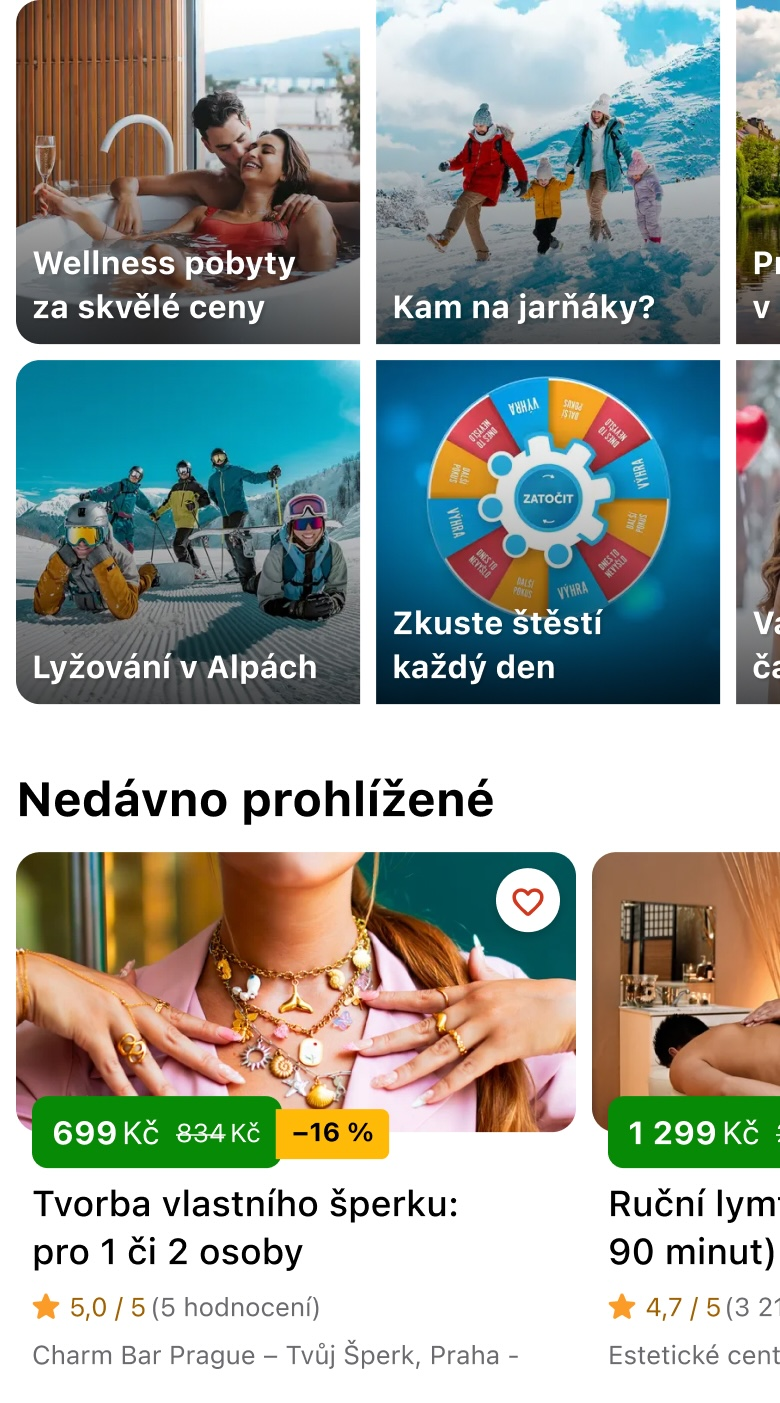
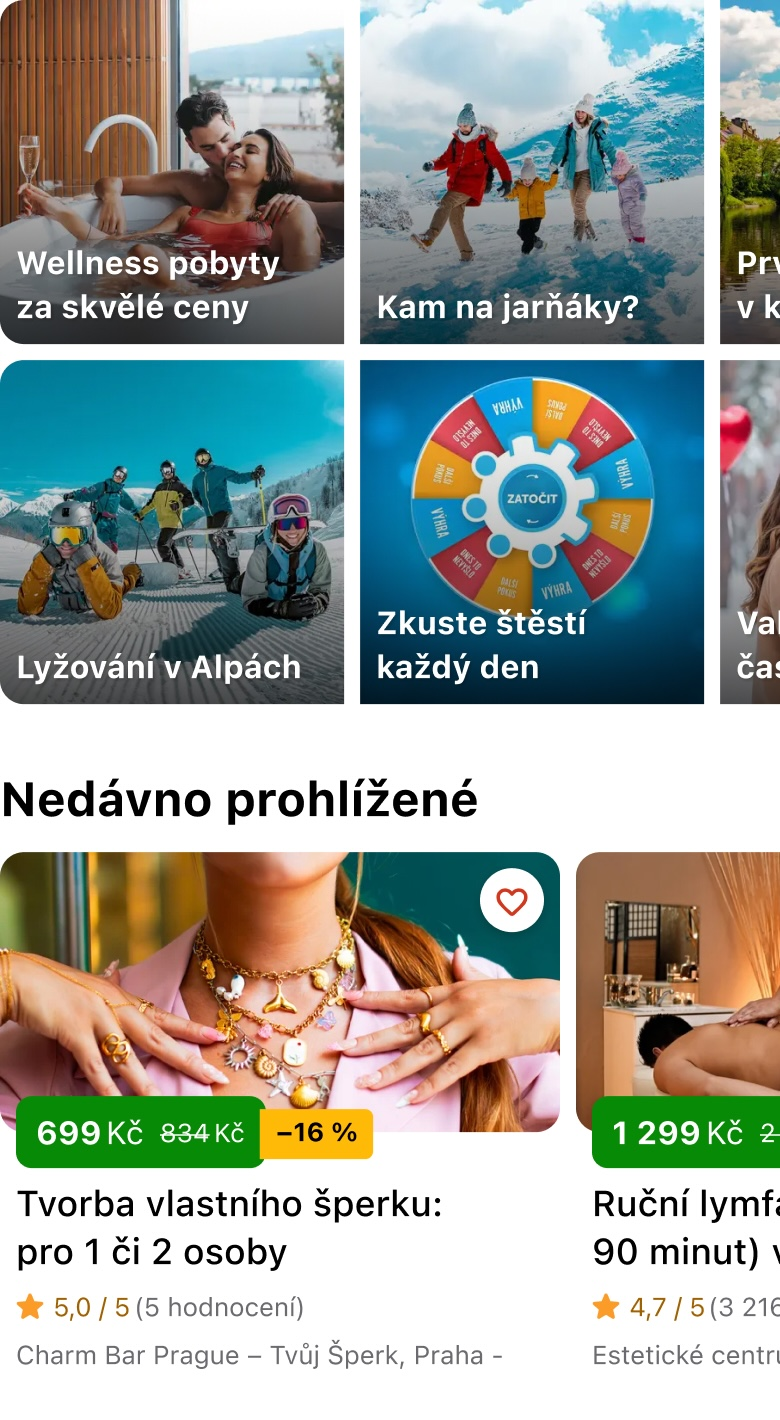
Odstraněn Zpět header, Změnit lokalitu nyní vede na homepage

diff --git a/src/components/FigmaMobile.tsx b/src/components/FigmaMobile.tsx
@@ -1,6 +1,7 @@
 import { motion, AnimatePresence } from 'framer-motion'
 import { X, Info, Mic, Send } from 'lucide-react'
 import { useState, useEffect } from 'react'
+import { useNavigate } from 'react-router-dom'
 import { useChatbot } from '../hooks/useChatbot'
 import DealCarousel from './DealCarousel'
 
@@ -13,6 +14,7 @@ interface MobileProps {
 }
 
 export default function FigmaMobile({ isOpen, onToggle }: MobileProps) {
+  const navigate = useNavigate()
   const [buttonState, setButtonState] = useState<'default' | 'state3' | 'state4' | 'state5'>('default')
   const [isBlinking, setIsBlinking] = useState(false)
   const [heroInput, setHeroInput] = useState('')
@@ -124,7 +126,7 @@ export default function FigmaMobile({ isOpen, onToggle }: MobileProps) {
           <div className="px-[10px] py-[10px] flex items-center justify-center gap-[4px] text-[11px]">
             <span className="text-[#333]">Praha a okolí</span>
             <span className="text-[#333]">·</span>
-            <span className="text-[#00a84f] font-medium">Změnit lokalitu</span>
+            <span className="text-[#00a84f] font-medium cursor-pointer hover:underline" onClick={() => navigate('/')}>Změnit lokalitu</span>
           </div>
 
           {/* Category Cards Grid + Nedávno prohlížené */}

diff --git a/src/pages/FigmaMCP.tsx b/src/pages/FigmaMCP.tsx
@@ -1,34 +1,14 @@
 import { useState } from 'react'
 import { motion } from 'framer-motion'
-import { useNavigate } from 'react-router-dom'
-import { ArrowLeft } from 'lucide-react'
 import FigmaMobile from '../components/FigmaMobile'
 
 function FigmaMCP() {
-  const navigate = useNavigate()
   const [isMobileOpen, setIsMobileOpen] = useState(false)
 
   return (
     <div className="min-h-screen bg-gradient-to-br from-purple-50 via-white to-pink-50 flex flex-col">
-      {/* Header */}
-      <div className="p-6 flex items-center justify-between">
-        {/* Back button */}
-        <motion.button
-          onClick={() => navigate('/')}
-          className="flex items-center gap-2 text-gray-600 hover:text-gray-900 transition-colors"
-          whileHover={{ x: -4 }}
-          whileTap={{ scale: 0.95 }}
-        >
-          <ArrowLeft className="w-5 h-5" />
-          <span className="font-medium">Zpět</span>
-        </motion.button>
-
-        {/* Spacer */}
-        <div className="w-[140px]" />
-      </div>
-
       {/* Content */}
-      <div className="flex-1 px-6 pb-6">
+      <div className="flex-1 px-6 py-6">
         <motion.div 
           className="h-full rounded-3xl overflow-visible"
           initial={{ opacity: 0, scale: 0.95 }}
